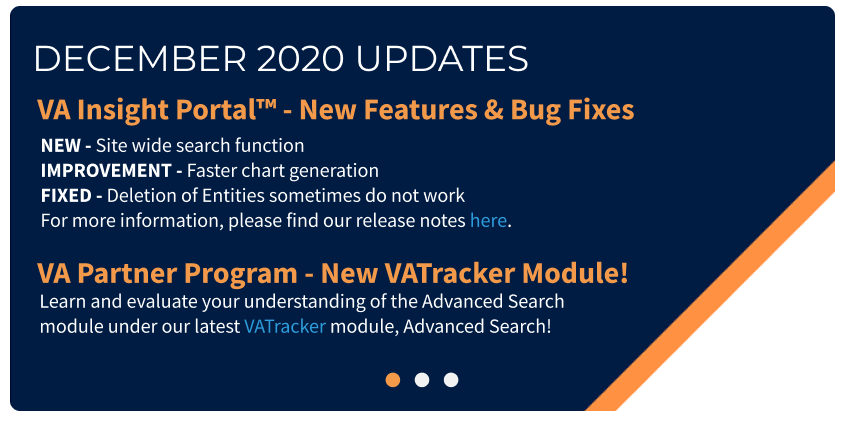
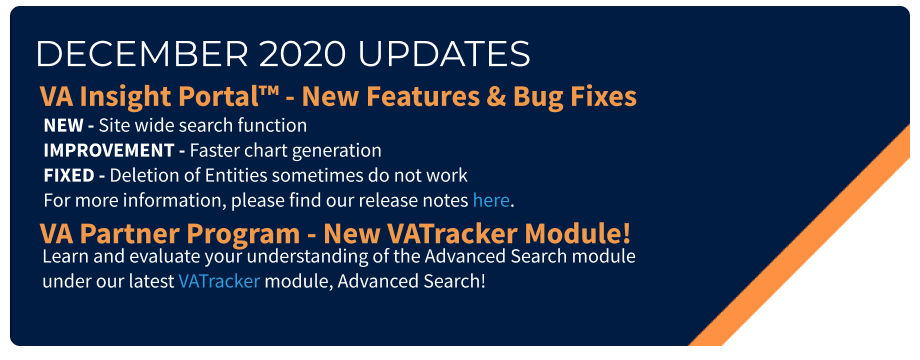
Clean up carousel

diff --git a/src/views/Home.vue b/src/views/Home.vue
@@ -3,7 +3,15 @@
     <div class="content">
       <div class="announcements">
         <h1 style="text-align: left">Announcements</h1>
-        <carousel :per-page="1" :navigate-to="0" :mouse-drag="false">
+        <carousel ref="vaCarousel"
+          :per-page="1" 
+          :navigate-to="0" 
+          :mouse-drag="false" 
+          :autoplay="true"
+          :loop="true"
+          paginationActiveColor="#F2994A"
+          paginationColor="#FFFFFF"
+        >
           <slide>
             <img src="../assets/Banner_Item_1.png" alt="Banner Item 1"/>
           </slide>
@@ -25,7 +33,16 @@
 <script>
 
 export default {
-  name: 'Home'
+  name: 'Home',
+  async mounted () {
+    const dotContainerElement = await document.getElementsByClassName('VueCarousel-dot-container')[0]
+    dotContainerElement.removeAttribute('style')
+
+    const dotElements = await document.getElementsByClassName('VueCarousel-dot')
+    for (const dotElet of dotElements) {
+      dotElet.style.marginTop = '0px'
+    }
+  }
 }
 </script>
 
@@ -39,5 +56,8 @@ export default {
 }
 .profile {
   width: 40%
+}
+.VueCarousel-dot-container {
+  margin-top: -20px;
 }
 </style>
